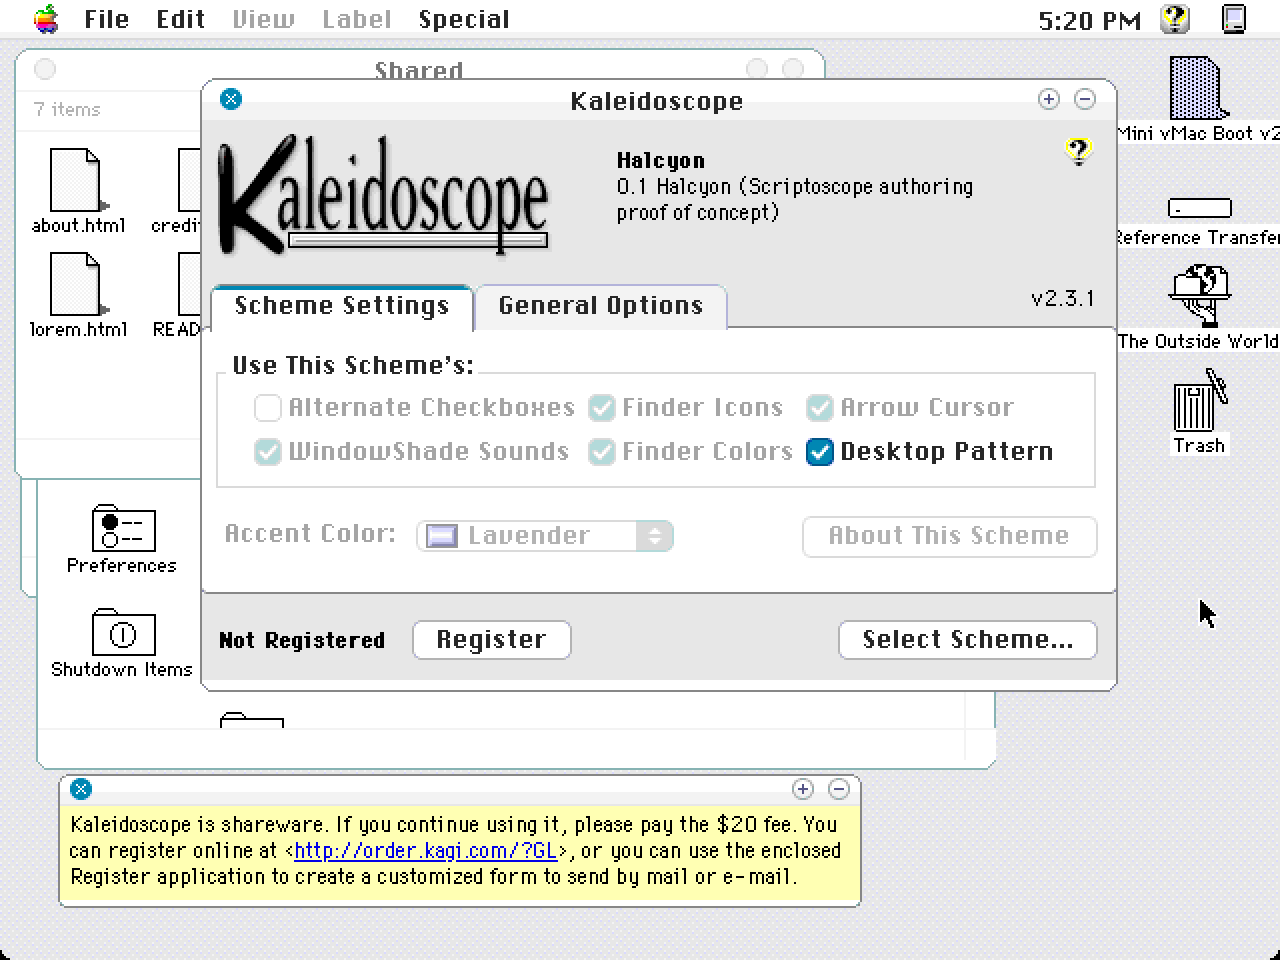
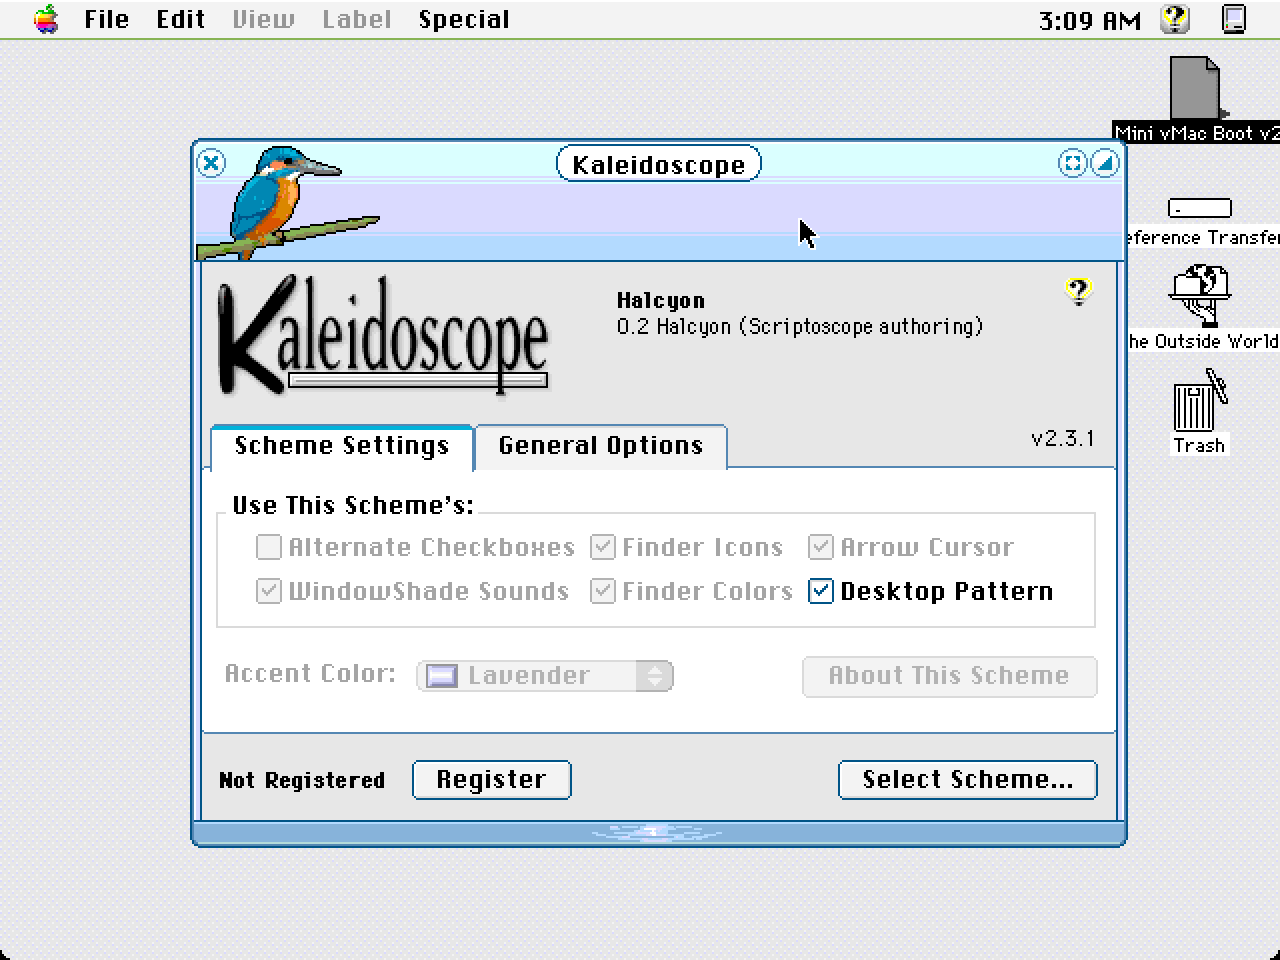
docs(authoring): real Kaleidoscope captures of the repainted schemes
All five authored schemes (Halcyon, Castle, Brickworks, Bonn, Midnight
2027) loaded in Kaleidoscope 2.3.1 on System 7.5.5 in one clean boot,
switching schemes through Select Scheme..., with no load errors.

Engine-behaviour evidence from measuring classic against the web
runtime at the same outer widths:
- Brickworks' tiled code-5 plate: the original engine tiles the plate
  src across the title width exactly as the web does; the seams sit at
  the same offsets from the plate edges, and only the plate width
  differs (Chicago 12 is narrower than the web font).
- Bonn's skyline on the code-6 caps: placed identically relative to
  the plate edges.
- Narrow windows drop the title together with code-10 ornaments at the
  same widths as the web.

Still open: plain dialog and alert bodies are system grey in classic
and white on the web. Brickworks and Bonn show a blank picker icon,
and Castle and Brickworks ship no desktop pattern. Each classic/README.md
records the date, the loaded scheme.bin sha256 and what differs.

diff --git a/authoring/schemes/halcyon/classic/README.md b/authoring/schemes/halcyon/classic/README.md
@@ -3,37 +3,60 @@
 Screenshots of `../scheme.bin` loaded in the original Kaleidoscope 2.3.1
 control panel on System 7.5.5. They were taken in the maintainers' private
 reference emulator (Basilisk II, 8 bpp, sound off; see
-[`docs/maintainer-reference-environment.md`](../../../../docs/maintainer-reference-environment.md))
-on 2026-10-30.
+[`docs/maintainer-reference-environment.md`](../../../../docs/maintainer-reference-environment.md)).
+The `@2x` files are nearest-neighbour upscales of the native 640×480 frame.
 
 | File | What it shows |
 |---|---|
-| `desktop@2x.png` | Finder list view with Halcyon's frame, column headers, disclosure triangles, both scroll bars, grow box, the menu bar and the desktop pattern; an inactive window behind |
-| `menu-open@2x.png` | an open pull-down menu with the teal title and item highlight |
+| `desktop@2x.png` | Finder list view (System Folder, Control Panels expanded) with Halcyon's frame, column headers, disclosure triangles, both scroll bars, grow box, the menu bar and the desktop pattern; the disk window inactive behind |
+| `desktop-before-repaint@2x.png` | the same kind of shot from the 2026-10-30 build, before the paint-over from the concept art |
+| `menu-open@2x.png` | the Finder's View menu held open: teal title and item highlight |
 | `control-panel@2x.png` | the Kaleidoscope control panel with Halcyon selected: tabs, tab pane, checkboxes, popup button; "Desktop Pattern" enabled |
-| `dialog@2x.png` | a stock dialog with Halcyon's push buttons and default ring |
-| `windowshade@2x.png` | a window-shaded (collapsed) window |
+| `dialog@2x.png` | the stock "different Folder and Trash icons … restart" alert, with Halcyon's alert frame and default ring |
+| `windowshade@2x.png` | the System Folder window shaded (collapsed): only the top band is left |
+| `utility-collapse-pressed@6x.png` | **older art** (2026-10-30 build); not re-shot on 2026-10-31 |
 
-The `@2x` files are nearest-neighbour upscales of the native 640×480 frame.
+## 2026-10-31: after the paint-over
 
-How the runs went:
+One clean boot that loaded Halcyon, Castle, Brickworks, Bonn and Midnight 2027
+in turn through **Select Scheme…** (fresh copies of the v16l seeds, sound off).
[1 lines of base64/hex data omitted]
 
-- **Loading:** the first run (frames, buttons and checkboxes only) loaded in
-  one boot with no errors, and a Windows 95 control run behaved the same.
-- **Complete scheme:** it also loaded in one boot. It exposed one bug: tab-pane
-  labels were drawn white on white. A final boot confirmed the fix, and these
-  screenshots come from that build.
-- **Still on system defaults:**
-  - Finder icons, cursors and sounds (not shipped);
-  - the "Finder Colors" and "Accent Color" options;
-  - controls a control panel draws itself, such as the Memory and Sound
-    panels' sliders.
-- **Open question:** a faint white band under the inactive window's bottom
-  edge in the desktop shot is unexplained. It may be another window stacked
-  behind.
+- **Loading:** no errors. The panel reads "Halcyon / 0.2 Halcyon (Scriptoscope
+  authoring)"; About This Scheme is greyed (no about box shipped). The scheme
+  picker shows Halcyon's icon. Closing the panel after switching from Apple
+  Lisa brought up the Folder/Trash icon restart alert (`dialog@2x.png`).
+- **Art above the title bar goes under the menu bar.** The top band is 62 px,
+  and the title strip (close box, title, zoom/collapse) is the top ~20 px of it.
+  Windows that open at their saved Finder positions put that strip under the
+  menu bar: the control panel and both Finder windows opened with only the
+  kingfisher's lower half and the lavender/blue band showing, and no title or
+  close box. Dragging the visible lower band moves the window, which is how
+  these shots were set up.
+- **Title bar colours:** the web art already stores the band as flat steps
+  (`#d4ffff`/`#d4d4ff`/`#a8d4ff`, alternate rows), and the 8 bpp screen shows
+  the same steps at its own levels (`#daffff`/`#dadaff`/`#b3daff`). No extra
+  banding or dithering beyond that.
+- **Still different from the web preview** (`../preview.png`):
+  - a plain alert/dialog body is the system dialog grey `#E7E7E7` under the
+    frame's white top band; the web runtime fills it white (runtime finding,
+    seen again);
+  - the title is bitmap Chicago 12, narrower than the web font, so the title
+    pill is narrower;
+  - Finder icons, cursors, sounds, Finder Colors and Accent Color stay on the
+    system defaults (not shipped).
 
 These are illustrations that the generated file is a valid, complete scheme.
 They are **not** admitted fidelity evidence (no reference-intake review, 8 bpp
 palette condition), and no golden or ledger row depends on them.
 
-**Updated 2026-10-30** after the visual design pass (`docs/authoring-visual-design.md`): these screenshots show the redesigned art, from one clean boot per scheme. Files named `*-before-redesign*` show the earlier build for comparison.
+## Earlier runs (2026-10-30)
+
+- **Loading:** the first run (frames, buttons and checkboxes only) loaded in
+  one boot with no errors, and a Windows 95 control run behaved the same.
+- **Complete scheme:** it also loaded in one boot. It exposed one bug: tab-pane
+  labels were drawn white on white. A final boot confirmed the fix.
+- **Open question then:** a faint white band under the inactive window's bottom
+  edge in the desktop shot, unexplained (not seen in the 2026-10-31 shots).
+- After the visual design pass (`docs/authoring-visual-design.md`) the shots
+  were redone from one clean boot per scheme.

diff --git a/authoring/schemes/bonn/classic/README.md b/authoring/schemes/bonn/classic/README.md
@@ -1,12 +1,63 @@
 # Bonn in real Kaleidoscope 2.3.1
 
 Screenshots of `../scheme.bin` in the original Kaleidoscope 2.3.1 on System 7.5.5
-(maintainers' private reference emulator, Basilisk II, 8 bpp, sound off), taken
-2026-10-30 in one clean boot. `@2x`/`@3x`/`@4x` files are nearest-neighbour
-upscales. These are illustrations that the scheme loads and draws in the real
-engine; they are **not** admitted fidelity evidence. The real-Kaleidoscope findings
-from this run (click-through on transparent frame pixels, the menu bar covering
-art above the title bar, narrow-window behaviour, 8 bpp colour shifts) are in
+(maintainers' private reference emulator, Basilisk II, 8 bpp, sound off).
+`@2x`/`@3x`/`@4x` files are nearest-neighbour upscales. These are illustrations
+that the scheme loads and draws in the real engine; they are **not** admitted
+fidelity evidence. The general findings about tall frames are in
 [`docs/authoring-exotic-frames.md`](../../../../docs/authoring-exotic-frames.md) R16.
 
-**Updated 2026-10-30** after the visual design pass (`docs/authoring-visual-design.md`): these screenshots show the redesigned art, from one clean boot per scheme. Files named `*-before-redesign*` show the earlier build for comparison.
+| File | What it shows |
+|---|---|
+| `desktop@2x.png` | System Folder list view (active, 434 px wide) over the inactive disk window: skyline, peach title bar, sandstone sides, bridge and river, themed menu bar and desktop |
+| `wide@2x.png` | the same window widened to 609 px |
+| `narrow-title-drop@3x.png` | left: 153 px wide, title, cathedral and palace all gone; right: 188 px wide, "Sy…" with both landmarks back |
+| `menubar-clips-skyline@3x.png` | the window dragged up to the menu bar: the whole skyline is under it |
+| `water-zoom@4x.png` | the bridge and river in the bottom band |
+| `desktop-before-repaint@2x.png` | the 2026-10-30 build, before the paint-over from the concept art |
+| `water-zoom-before-redesign@4x.png` | the build before the visual design pass |
+
+## 2026-10-31: after the paint-over
+
+One clean boot that switched Halcyon → Castle → Brickworks → Bonn → Midnight
+2027 → Bonn through **Select Scheme…**. `scheme.bin` sha256
[1 lines of base64/hex data omitted]
+
+- **Loading:** no errors either time. The panel reads "Bonn / 0.1 Bonn
+  (Scriptoscope authoring)". The scheme picker shows a **blank icon** (Bonn
+  ships no picker icon, by design). The menu bar (peach with a red rule) and
+  the blossom desktop pattern are themed.
+- **The skyline on the code-6 caps beside the title: the original engine
+  places it the same way as the web runtime.** Measured at the same outer
+  width (609 px) against `demo/authoring-preview.html`:
+  - the cathedral rides the cap left of the title plate: its left edge is
+    30 px left of the plate's left edge in both (classic 221 vs plate 251;
+    web 216 vs plate 246, window-relative);
+  - the palace rides the cap right of the plate: its left edge is 3 px inside
+    the plate's right edge in both (classic 352 vs 355; web 358 vs 361);
+  - the blossom stays on the left corner and the tower on the right corner.
+  
+  The only difference is where the plate edges fall: Chicago 12 "System Folder"
+  gives a narrower plate (105 px with its notches) than the web font (116 px),
+  so both landmarks sit about 5 px closer to the centre in classic. In the
+  wide window the cathedral and palace follow the title to the middle, as on
+  the web.
+- **Narrow windows drop the title and the cap landmarks together.** At 153 px
+  outer width there is no title plate, no cathedral and no palace; only the
+  blossom, the tower and the widgets are drawn. At 188 px the plate comes back
+  ("Sy…") with both landmarks. The web runtime does the same at the same two
+  widths (dropped at 153; a plate at 188, showing only "…" because its font is
+  wider).
+- **Art above the title bar goes under the menu bar.** With the title bar
+  dragged up against the menu bar, the entire skyline is hidden; nothing shows
+  between the menu bar and the title bar.
+- **Colours:** on the 8 bpp palette the peach title bar is `#ffdab3` (web
+  `#ffcc99`) and the stone and water keep their bands; no extra banding seen.
+- **Other differences from the web preview** (`../preview.png`): the title is
+  bitmap Chicago 12; the Finder's column-header band is peach.
+
+## Earlier run (2026-10-30)
+
+One clean boot; then redone after the visual design pass
+(`docs/authoring-visual-design.md`). Files named `*-before-redesign*` show
+that earlier build.

diff --git a/authoring/schemes/brickworks/classic/README.md b/authoring/schemes/brickworks/classic/README.md
@@ -1,12 +1,61 @@
 # Brickworks in real Kaleidoscope 2.3.1
 
 Screenshots of `../scheme.bin` in the original Kaleidoscope 2.3.1 on System 7.5.5
-(maintainers' private reference emulator, Basilisk II, 8 bpp, sound off), taken
-2026-10-30 in one clean boot. `@2x`/`@3x`/`@4x` files are nearest-neighbour
-upscales. These are illustrations that the scheme loads and draws in the real
-engine; they are **not** admitted fidelity evidence. The real-Kaleidoscope findings
-from this run (click-through on transparent frame pixels, the menu bar covering
-art above the title bar, narrow-window behaviour, 8 bpp colour shifts) are in
+(maintainers' private reference emulator, Basilisk II, 8 bpp, sound off).
+`@2x`/`@4x`/`@6x` files are nearest-neighbour upscales. These are illustrations
+that the scheme loads and draws in the real engine; they are **not** admitted
+fidelity evidence. The general findings about tall frames are in
 [`docs/authoring-exotic-frames.md`](../../../../docs/authoring-exotic-frames.md) R16.
 
-**Updated 2026-10-30** after the visual design pass (`docs/authoring-visual-design.md`): these screenshots show the redesigned art, from one clean boot per scheme. Files named `*-before-redesign*` show the earlier build for comparison.
+| File | What it shows |
+|---|---|
+| `desktop@2x.png` | System Folder list view (active, 522 px wide) over the inactive disk window: corner bricks, stud row, crane, scroll bars |
+| `wide@2x.png` | the same window widened to 618 px |
+| `control-panel@2x.png` | the Kaleidoscope control panel with Brickworks selected |
+| `title-plate-tiling@4x.png` | the stud row over the title plate in `wide@2x.png`, showing the seams at both plate edges |
+| `corner-zoom@6x.png` | the zoom and collapse widgets at the right end of the title bar |
+| `desktop-before-repaint@2x.png` | the 2026-10-30 build, before the paint-over from the concept art |
+| `corner-zoom-before-redesign@6x.png` | the build before the visual design pass |
+
+## 2026-10-31: after the paint-over
+
+One clean boot that switched Halcyon → Castle → Brickworks → Bonn → Midnight
+2027 through **Select Scheme…**. `scheme.bin` sha256
[1 lines of base64/hex data omitted]
+
+- **Loading:** no errors. The panel reads "Brickworks / 0.1 Brickworks
+  (Scriptoscope authoring)". The scheme picker shows a **blank icon** for
+  Brickworks (no scheme icon is shipped), and the menu bar and desktop stay on
+  the system defaults (no menus module, no desktop pattern).
+- **The tiled stud row over the title plate: the original engine tiles it the
+  same way as the web runtime.** Both were measured at the same outer widths
+  (618 and 522 px) against `demo/authoring-preview.html`, by the window-relative
+  x of the dark brick outlines in the stud row:
+  - the row is cut into three runs at the plate edges, with a double seam at
+    each edge;
+  - the run left of the plate is phased so that its last whole 18 px tile ends
+    at the plate's left edge, with a partial tile against the left corner
+    (classic 2 px at 618, web 15 px);
+  - the run over the plate starts with a 2 px piece, then whole tiles, then a
+    truncated tile and a 3 px end piece before the right edge;
+  - the run right of the plate starts with a whole tile at the plate's right
+    edge and is cut short at the right corner.
+  
+  The seams land at the same offsets from the plate edges in both. The only
+  difference is the plate width, which follows the title font: Chicago 12
+  "System Folder" gives a 97 px plate, the web font 108 px, so the counts
+  inside the plate differ. One geometry (two widths, one title); not admitted
+  evidence.
+- **Narrow windows:** at 153 px outer width the title is truncated to "S…" and
+  still drawn; the crane overhangs the next window.
+- **Other differences from the web preview** (`../preview.png`): the title is
+  bitmap Chicago 12; colours sit on the 8 bpp palette levels (the reds, yellows
+  and blues stay clean, no banding seen); the crane and corner brick over the
+  desktop show the desktop pattern through their transparent pixels as
+  expected.
+
+## Earlier run (2026-10-30)
+
+One clean boot; then redone after the visual design pass
+(`docs/authoring-visual-design.md`). Files named `*-before-redesign*` show
+that earlier build.

diff --git a/authoring/schemes/castle/classic/README.md b/authoring/schemes/castle/classic/README.md
@@ -1,12 +1,48 @@
 # Castle in real Kaleidoscope 2.3.1
 
 Screenshots of `../scheme.bin` in the original Kaleidoscope 2.3.1 on System 7.5.5
-(maintainers' private reference emulator, Basilisk II, 8 bpp, sound off), taken
-2026-10-30 in one clean boot. `@2x`/`@3x`/`@4x` files are nearest-neighbour
-upscales. These are illustrations that the scheme loads and draws in the real
-engine; they are **not** admitted fidelity evidence. The real-Kaleidoscope findings
-from this run (click-through on transparent frame pixels, the menu bar covering
-art above the title bar, narrow-window behaviour, 8 bpp colour shifts) are in
+(maintainers' private reference emulator, Basilisk II, 8 bpp, sound off).
+`@2x` files are nearest-neighbour upscales of the native 640×480 frame. These are
+illustrations that the scheme loads and draws in the real engine; they are
+**not** admitted fidelity evidence. The general findings about tall frames
+(click-through on transparent frame pixels, the menu bar covering art above the
+title bar, narrow-window behaviour, 8 bpp colour shifts) are in
 [`docs/authoring-exotic-frames.md`](../../../../docs/authoring-exotic-frames.md) R16.
 
-**Updated 2026-10-30** after the visual design pass (`docs/authoring-visual-design.md`): these screenshots show the redesigned art, from one clean boot per scheme. Files named `*-before-redesign*` show the earlier build for comparison.
+| File | What it shows |
+|---|---|
+| `desktop@2x.png` | System Folder list view (active) over the inactive disk window: towers, flags, crenellations, the red title plate |
+| `wide@2x.png` | the same window widened to 608 px |
+| `desktop-before-repaint@2x.png` | the 2026-10-30 build, before the paint-over from the concept art |
+| `desktop-before-redesign@2x.png` | the build before the visual design pass |
+
+## 2026-10-31: after the paint-over
+
+Taken in one clean boot that switched Halcyon → Castle → Brickworks → Bonn →
+Midnight 2027 through **Select Scheme…**. `scheme.bin` sha256
[1 lines of base64/hex data omitted]
+
+- **Loading:** no errors. The panel reads "Castle / 0.2 Castle (Scriptoscope
+  authoring)"; About This Scheme is enabled; the picker shows the scheme icon.
+- **Same as the web preview** (`../preview.png`): tower, flag and crenellation
+  placement, the red title plate, the widget positions and the moat strip.
+- **Narrow windows:** at 160 px outer width (the Finder's minimum here) the
+  title is truncated to "System…" and still drawn; the towers overlap the
+  title band but nothing drops.
+- **Differences from the web preview:**
+  - the title is bitmap Chicago 12, so the plate is narrower than the web one;
+  - the Finder's info bar and column-header band are drawn tan
+    (`#b38754`), a strip the web preview has no equivalent for;
+  - the desktop stays the system grey: Castle ships no desktop pattern
+    (`Desktop Pattern` is greyed in the panel);
+  - colours sit on the 8 bpp palette levels (e.g. cream body, tan header);
+    no banding was visible in the stone or the title plate.
+- Art above the title bar: these windows were dragged clear of the menu bar,
+  so nothing is hidden in the shots. Castle under the menu bar was not
+  re-tested in this run.
+
+## Earlier run (2026-10-30)
+
+One clean boot; then redone after the visual design pass
+(`docs/authoring-visual-design.md`). Files named `*-before-redesign*` show
+that earlier build.

diff --git a/authoring/schemes/new-year-2027/classic/README.md b/authoring/schemes/new-year-2027/classic/README.md
@@ -1,0 +1,44 @@
+# Midnight 2027 in real Kaleidoscope 2.3.1
+
+Screenshots of `../scheme.bin` in the original Kaleidoscope 2.3.1 on System 7.5.5
+(maintainers' private reference emulator, Basilisk II, 8 bpp, sound off), taken
+2026-10-31. `@2x`/`@3x` files are nearest-neighbour upscales of the native
+640×480 frame. These are illustrations that the scheme loads and draws in the
+real engine; they are **not** admitted fidelity evidence. The general findings
+about tall frames are in
+[`docs/authoring-exotic-frames.md`](../../../../docs/authoring-exotic-frames.md) R16.
+
+| File | What it shows |
+|---|---|
+| `desktop@2x.png` | System Folder list view (active, 414 px wide) over the inactive disk window: fireworks, gold title plate, "2027", clock grow box, navy menu bar and starry desktop |
+| `wide@2x.png` | the same window widened to 599 px |
+| `narrow-title-drop@3x.png` | left: 143 px wide, title, "2027" and both fireworks gone; right: 213 px wide, "Syste…", "2027" and the fireworks back |
+
+## 2026-10-31: first run
+
+One clean boot that switched Halcyon → Castle → Brickworks → Bonn → Midnight
+2027 through **Select Scheme…**. `scheme.bin` sha256
[1 lines of base64/hex data omitted]
+
+- **Loading:** no errors. The panel reads "Midnight 2027 / 0.1 Midnight 2027
+  (Scriptoscope authoring)"; the picker shows the scheme icon; the menu bar,
+  menus and desktop pattern are themed. The Select Scheme dialog gets the Midnight
+  dialog frame.
+- **Same as the web preview** (`../preview.png`): firework, plate, "2027" and
+  widget positions match the web runtime at the same outer width (599 px).
+- **Narrow windows:** at 143 px outer width the title plate, "2027" and both
+  fireworks are dropped; at 213 px they are all drawn ("Syste…"). The web
+  runtime does the same at the same two widths ("Syst…", its font is wider).
+- **8 bpp colour shifts in the fireworks.** The bursts keep their shape but
+  move to the 8-bit palette: the gold burst is `#ffda54` / `#ffffda` /
+  `#dab354` with `#ff87da` sparks (web `#ffcc33` / `#ffffcc` / `#cc9933` with
+  `#ff66cc`). The cyan burst shows as `#54daff` / `#00b3da` /
+  `#87b3da`. On screen the gold reads paler and more lemon, the pink sparks
+  brighter.
+- **Navy:** the frame's navy is `#00003f` and the desktop `#000054`; the
+  active frame sits on a desktop of nearly the same colour, so the window
+  edge is carried by the gold content outline and the starfield break.
+- **Other differences from the web preview:** the title is bitmap Chicago 12,
+  so the plate is narrower.
+- Art above the title bar: these windows were dragged clear of the menu bar,
+  so no firework is hidden in the shots; under the menu bar was not tested.
